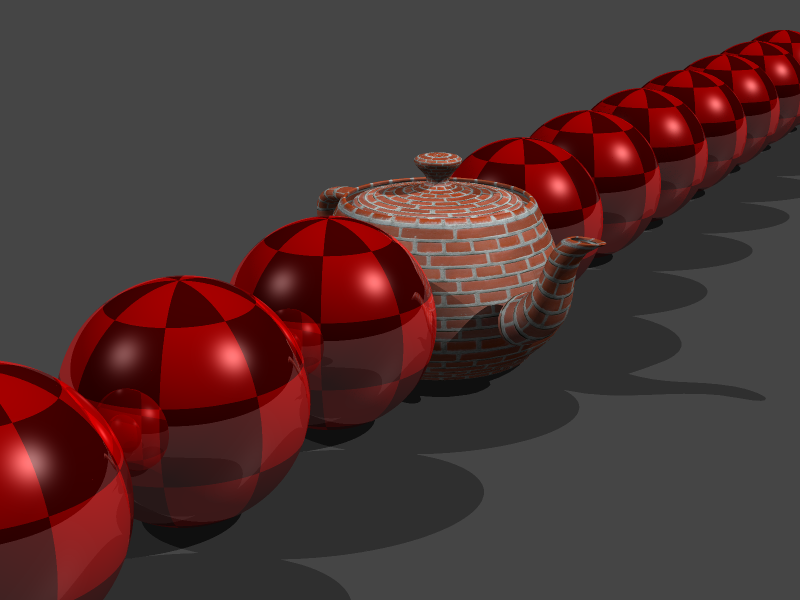
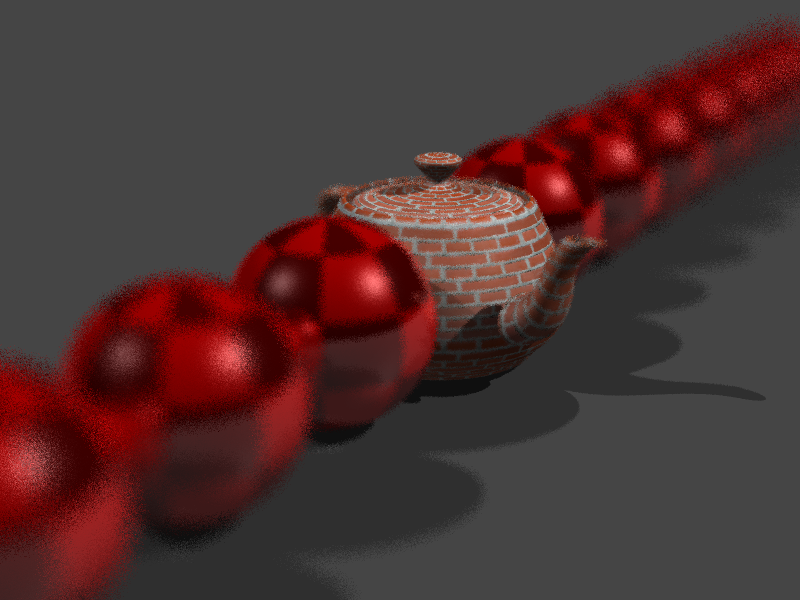
save

Changed region(s): [[0.0, 0.03, 1.0, 1.0], [0.2188, 0.9, 0.25, 0.93]]

diff --git a/RayTracingRenderer/RayTracingRenderer/RayTracingRenderer.cpp b/RayTracingRenderer/RayTracingRenderer/RayTracingRenderer.cpp
@@ -27,7 +27,7 @@ TextureList textureList;
 #define TIMEOFREFRECTION 2
 #define RAYPERPIXEL 4
 #define SHADOWBIAS 0.0005f
-#define MAXSAMPLECOUNT 8
+#define MAXSAMPLECOUNT 4
 #define SAMPLEVARIENCE 0.001f
 #define HALFOFPIXELRATIO 0.5f
 
@@ -109,14 +109,21 @@ Color RayTraversing(Node * traversingnode, Node * node, Ray ray, float & zbuffer
 
 Vec3f SamplingForDepthOfField(float radius, Vec3f point)
 {
-	float r = (rand() / (RAND_MAX)) * radius;
-	float angle = (rand() / (RAND_MAX)) * 2 * M_PI;
+	float r = ((float)rand() / (RAND_MAX)) * radius;
+	float angle = ((float)rand() / (RAND_MAX)) * 2 * M_PI;
 	r = radius * sqrt(r);
 	Vec3f x = camera.dir.Cross(camera.up);
 	Vec3f y = camera.up;
 	Vec3f offset = r * cos(angle) * x + r * sin(angle) * y;
 
 	return point + offset;
+}
+
+Vec3f RandomSamplingForAPixel(Vec3f xaxis, Vec3f yaxis, float rate, Vec3f point)
+{
+	float xrate = ((2 * ((float)rand() / (RAND_MAX))) - 1) * rate;
+	float yrate = ((2 * ((float)rand() / (RAND_MAX))) - 1) * rate;
+	return point + xrate * xaxis + yrate * yaxis;
 }
 
 Color AdaptiveSampling(Ray ray, float radiusrate, Vec3f xaxis, Vec3f yaxis, Node * traversingnode, Node * node, float & zbuffer, Ray originalray, uint8_t & samplecount)
@@ -147,6 +154,7 @@ Color AdaptiveSampling(Ray ray, float radiusrate, Vec3f xaxis, Vec3f yaxis, Node
 		{
 			screenpoints[i] = ray.p + camera.focaldist * ray.dir - radiusrate * xaxis - radiusrate * yaxis;
 		}
+		screenpoints[i] = RandomSamplingForAPixel(xaxis, yaxis, radiusrate, screenpoints[i]);
 
 		cameraraies[i].p = SamplingForDepthOfField(camera.dof, ray.p);
 		cameraraies[i].dir = screenpoints[i] - cameraraies[i].p;
